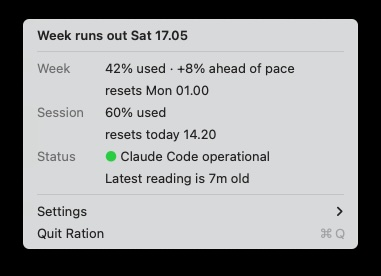
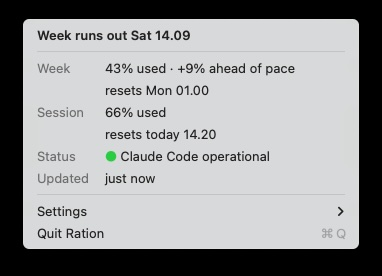
docs: rewrap README to 80 columns

diff --git a/README.md b/README.md
@@ -1,7 +1,6 @@
 # Ration
 
-A macOS menu bar meter for Claude Code usage — and the only one that tells you
-whether you're burning the week faster than the week is passing.
+A macOS menu bar meter for Claude Code usage.
 
 <p>
   <img src="docs/menubar.png" alt="Ration in the macOS menu bar, showing a partly filled disc and a percentage" height="40">
@@ -9,9 +8,9 @@ whether you're burning the week faster than the week is passing.
   <img src="docs/ration-menu.jpg" alt="Ration's dropdown: week and session usage with reset times, Claude Code service status, and when the reading was last updated" width="330">
 </p>
 
-Claude Code's status line already shows your session usage. Ration adds the two
-things it can't: whether you're ahead of the week's pace, and — when a session
-runs dry — the time you get it back. Times follow your Mac's clock format.
+Claude Code's status line already shows your session usage. Ration adds two
+things: whether you're ahead of the week's pace, and (when a session runs dry)
+the time you get it back.
 
 ## Install
 
@@ -23,13 +22,12 @@ brew install ration
 open "$(brew --prefix)/opt/ration/Ration.app"
 ```
 
-Then **Settings → Set up Ration…**, which shows the exact change it will make
-to `settings.json` before touching anything.
+Then **Settings → Set up Ration…**, which shows the change it will make to
+`settings.json`.
 
-Ration builds on your machine rather than shipping a binary, so nothing is
-downloaded and nothing is quarantined — no Gatekeeper prompt, and no Apple
-Developer account behind it. Building needs only the Command Line Tools
-Homebrew already requires, and takes a few seconds.
+Ration builds on your machine, so nothing is downloaded and nothing is
+quarantined. Building needs only the Command Line Tools, and takes a few
+seconds.
 
 <details>
 <summary>Without Homebrew</summary>
@@ -40,18 +38,13 @@ cd ration && ./build.sh
 cp -R build/Ration.app /Applications/
 open /Applications/Ration.app
 ```
-
-A locally built app is ad-hoc signed by the linker and carries no quarantine
-flag, so it launches without a warning. A *downloaded* unsigned build would not:
-macOS 15 removed the Control-click → Open shortcut, and it would have to be
-approved under System Settings → Privacy & Security.
 </details>
 
-## Using it
+## Use
 
-The menu bar shows how much of your **week** is spent, since Claude Code
-already reports the session. When a session runs out, the time you get it back
-appears beside it: `41% · 1h 12m`.
+The menu bar shows how much of your **week** is spent, since Claude Code already
+reports the session. When a session runs out, the time you get it back appears
+beside it: `41% · 1h 12m`.
 
 **Settings** holds **Open at Login** and **Undo Setup…**. Everything also works
 from the terminal:
@@ -68,7 +61,7 @@ ration --dump          # print what the menu would say
 
 Ration reads the documented
 [`rate_limits`](https://code.claude.com/docs/en/statusline) from Claude Code's
-status line. No API calls, no cookie, no token.
+status line.
 
 Setup wraps whatever status line command you already have:
 
@@ -85,8 +78,8 @@ The wrapper installs to `~/.claude/`, not inside the app bundle, so deleting
 Ration can't break your status line.
 
 Every Claude Code session writes that same file, and sessions left idle
-rebroadcast windows that have already expired. Ration keeps whichever reading
-is genuinely newest rather than whichever landed last.
+rebroadcast windows that have already expired. Ration keeps whichever reading is
+genuinely newest rather than whichever landed last.
 
 ## Privacy
 
